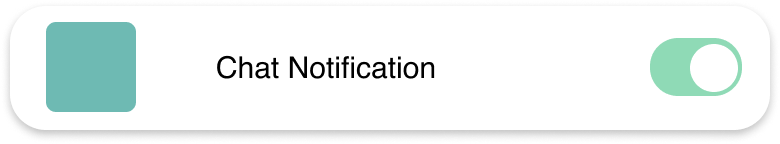
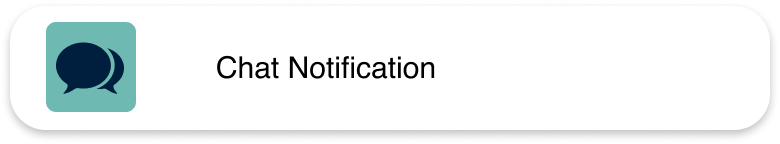
Refine setting_notification_screen.dart + assets updates

Changed region(s): [[0.8308, 0.25, 0.9538, 0.6667], [0.0615, 0.2778, 0.1846, 0.6389]]

diff --git a/frontend/lib/screens/setting_notification_screen.dart b/frontend/lib/screens/setting_notification_screen.dart
@@ -1,0 +1,245 @@
+// lib/screens/setting_notification_screen.dart
+import 'package:flutter/material.dart';
+import 'package:google_fonts/google_fonts.dart';
+import 'package:frontend/common/app_color.dart';
+import 'package:frontend/common/app_route.dart';
+import 'package:frontend/common/screen_utils.dart';
+
+class SettingNotificationScreen extends StatefulWidget {
+  const SettingNotificationScreen({super.key});
+
+  @override
+  State<SettingNotificationScreen> createState() => _SettingNotificationScreenState();
+}
+
+class _SettingNotificationScreenState extends State<SettingNotificationScreen> {
+  // State untuk setiap toggle notifikasi
+  bool _chatNotificationEnabled = true;
+  bool _communityNotificationsEnabled = true;
+  bool _dailyCheckinScheduleEnabled = true;
+
+  // Widget pembangun item notifikasi dengan toggle
+  Widget _buildNotificationItem(
+    BuildContext context,
+    String assetPath, // Path ke gambar PNG utuh (misal: menu_chat_notification.png)
+    bool isEnabled,
+    ValueSetter<bool> onChanged, // Callback saat toggle berubah
+  ) {
+    return GestureDetector(
+      onTap: () {
+        // Ketika seluruh area item di-tap, ubah status toggle
+        onChanged(!isEnabled);
+      },
+      child: Container(
+        width: context.scaleWidth(380),
+        height: context.scaleHeight(62),
+        // *** BAGIAN INI SUDAH TIDAK ADA BoxDecoration AGAR TIDAK ADA KOTAK BERTUMPUK ***
+        // decoration: BoxDecoration(
+        //   color: AppColor.putihNormal,
+        //   borderRadius: BorderRadius.circular(context.scaleWidth(18)),
+        //   boxShadow: [
+        //     BoxShadow(
+        //       color: Colors.black.withOpacity(0.25),
+        //       blurRadius: 5,
+        //       offset: const Offset(0, 2),
+        //     ),
+        //   ],
+        // ),
+        child: Stack(
+          children: [
+            // Gambar PNG utama (sudah termasuk ikon, teks, dan background putih)
+            Positioned.fill(
+              child: Image.asset(
+                assetPath,
+                fit: BoxFit.fill, // Penting agar gambar mengisi area
+              ),
+            ),
+            // *** BAGIAN INI ADALAH SWITCH YANG TETAP ADA DAN INTERAKTIF ***
+            Positioned(
+              right: context.scaleWidth(15), // Posisi dari kanan
+              top: 0,
+              bottom: 0,
+              child: Center(
+                child: SizedBox( // Menggunakan SizedBox untuk mengatur ukuran Switch
+                  width: context.scaleWidth(46), // Lebar dari Figma: 46px
+                  height: context.scaleHeight(29), // Tinggi dari Figma: 29px
+                  child: Switch(
+                    value: isEnabled,
+                    onChanged: onChanged, // Mengelola perubahan state toggle
+                    activeColor: AppColor.putihNormal, // Warna Thumb saat aktif (FFFFFF)
+                    activeTrackColor: const Color(0xFF8FDAB6), // Warna Track saat aktif (8FDAB6)
+                    inactiveThumbColor: AppColor.putihNormal, // Warna Thumb saat tidak aktif (FFFFFF)
+                    inactiveTrackColor: Colors.grey.withOpacity(0.6), // Warna Track saat tidak aktif (mirip Figma)
+                  ),
+                ),
+              ),
+            ),
+          ],
+        ),
+      ),
+    );
+  }
+
+  @override
+  Widget build(BuildContext context) {
+    final double screenWidth = context.screenWidth;
+    final double screenHeight = context.screenHeight;
+
+    return Scaffold(
+      backgroundColor: AppColor.putihNormal,
+      body: SafeArea(
+        child: SizedBox(
+          width: screenWidth,
+          height: screenHeight,
+          child: Stack(
+            children: [
+              // wave_top.png (background atas)
+              Positioned(
+                top: 0,
+                left: 0,
+                right: 0,
+                child: Image.asset(
+                  'assets/images/wave_top.png',
+                  width: context.scaleWidth(431.5),
+                  height: context.scaleHeight(200),
+                  fit: BoxFit.fill,
+                ),
+              ),
+
+              // arrow.png (tombol kembali)
+              Positioned(
+                top: context.scaleHeight(16),
+                left: context.scaleWidth(8),
+                child: GestureDetector(
+                  onTap: () {
+                    Navigator.pop(context);
+                  },
+                  child: Image.asset(
+                    'assets/images/arrow.png',
+                    width: context.scaleWidth(66),
+                    height: context.scaleHeight(66),
+                    fit: BoxFit.contain,
+                  ),
+                ),
+              ),
+
+              // Text 'Notifications' - posisinya di wave_top
+              Positioned(
+                top: context.scaleHeight(35),
+                left: 0,
+                right: 0,
+                child: Center(
+                  child: Text(
+                    'Notifications',
+                    style: GoogleFonts.roboto(
+                      fontSize: 24,
+                      fontWeight: FontWeight.w700,
+                      color: AppColor.putihNormal,
+                    ),
+                  ),
+                ),
+              ),
+
+              // Daftar menu notifikasi
+              Positioned(
+                top: context.scaleHeight(230), // Posisi disesuaikan
+                left: context.scaleWidth(25),
+                right: context.scaleWidth(25),
+                child: Column(
+                  children: [
+                    SizedBox(height: context.scaleHeight(20)), // Jarak dari wave_top
+                    _buildNotificationItem(
+                      context,
+                      'assets/images/menu_chat_notification.png',
+                      _chatNotificationEnabled,
+                      (bool newValue) {
+                        setState(() {
+                          _chatNotificationEnabled = newValue;
+                        });
+                        print('Chat Notification: $newValue');
+                        // TODO: Simpan status notifikasi ke preferensi pengguna
+                      },
+                    ),
+                    SizedBox(height: context.scaleHeight(20)),
+                    _buildNotificationItem(
+                      context,
+                      'assets/images/menu_community_notifications.png',
+                      _communityNotificationsEnabled,
+                      (bool newValue) {
+                        setState(() {
+                          _communityNotificationsEnabled = newValue;
+                        });
+                        print('Community Notifications: $newValue');
+                        // TODO: Simpan status notifikasi ke preferensi pengguna
+                      },
+                    ),
+                    SizedBox(height: context.scaleHeight(20)),
+                    _buildNotificationItem(
+                      context,
+                      'assets/images/menu_daily_checkin_schedule.png',
+                      _dailyCheckinScheduleEnabled,
+                      (bool newValue) {
+                        setState(() {
+                          _dailyCheckinScheduleEnabled = newValue;
+                        });
+                        print('Daily Check-in Schedule: $newValue');
+                        // TODO: Simpan status notifikasi ke preferensi pengguna
+                      },
+                    ),
+                  ],
+                ),
+              ),
+
+              // Navigation Bar Bawah
+              Positioned(
+                bottom: 0,
+                left: 0,
+                right: 0,
+                height: context.scaleHeight(100),
+                child: Container(
+                  decoration: const BoxDecoration(
+                    color: AppColor.putihNormal,
+                    border: Border(
+                      top: BorderSide(
+                        color: Colors.black,
+                        width: 1.0,
+                      ),
+                    ),
+                  ),
+                  child: Row(
+                    mainAxisAlignment: MainAxisAlignment.spaceEvenly,
+                    crossAxisAlignment: CrossAxisAlignment.center,
+                    children: [
+                      GestureDetector(
+                        onTap: () {
+                          Navigator.pushReplacementNamed(context, AppRoute.dashboard);
+                        },
+                        child: Image.asset(
+                          'assets/images/home_button_profile.png',
+                          width: context.scaleWidth(46),
+                          height: context.scaleHeight(50),
+                          fit: BoxFit.contain,
+                        ),
+                      ),
+                      GestureDetector(
+                        onTap: () {
+                          Navigator.pushReplacementNamed(context, AppRoute.profile);
+                        },
+                        child: Image.asset(
+                          'assets/images/button_profile.png',
+                          width: context.scaleWidth(68),
+                          height: context.scaleHeight(68),
+                          fit: BoxFit.contain,
+                        ),
+                      ),
+                    ],
+                  ),
+                ),
+              ),
+            ],
+          ),
+        ),
+      ),
+    );
+  }
+}

diff --git a/frontend/lib/main.dart b/frontend/lib/main.dart
@@ -3,6 +3,7 @@ import 'package:flutter/services.dart';
 import 'package:flutter_bloc/flutter_bloc.dart';
 import 'package:frontend/screens/profile_feedback_screen.dart';
 import 'package:frontend/screens/profile_setting_screen.dart';
+import 'package:frontend/screens/setting_notification_screen.dart';
 import 'package:google_fonts/google_fonts.dart';
 
 import 'package:frontend/common/app_color.dart';
@@ -84,6 +85,7 @@ class MyApp extends StatelessWidget {
           AppRoute.profileEdit: (context) => const ProfileEditScreen(),
           AppRoute.feedback: (context) => const ProfileFeedbackScreen(),
           AppRoute.settings: (context) => const ProfileSettingScreen(), 
+          AppRoute.notificationSettings: (context) => const SettingNotificationScreen(),
         },
       ),
     );

diff --git a/frontend/lib/screens/profile_setting_screen.dart b/frontend/lib/screens/profile_setting_screen.dart
@@ -104,7 +104,7 @@ class ProfileSettingScreen extends StatelessWidget {
                       context,
                       'assets/images/menu_setting_notifikasi.png',
                       () {
-                        print('Notifikasi Tapped');
+                        Navigator.pushNamed(context, AppRoute.notificationSettings);
                       },
                     ),
                     SizedBox(height: context.scaleHeight(20)),

diff --git a/frontend/lib/common/app_route.dart b/frontend/lib/common/app_route.dart
@@ -13,4 +13,5 @@ class AppRoute {
   static const String chatbot = '/chatbot';
   static const String chatbotHistory = '/chatbot/history';
   static const String feedback = '/feedback';
+  static const String notificationSettings = '/settings/notifications';
 }
